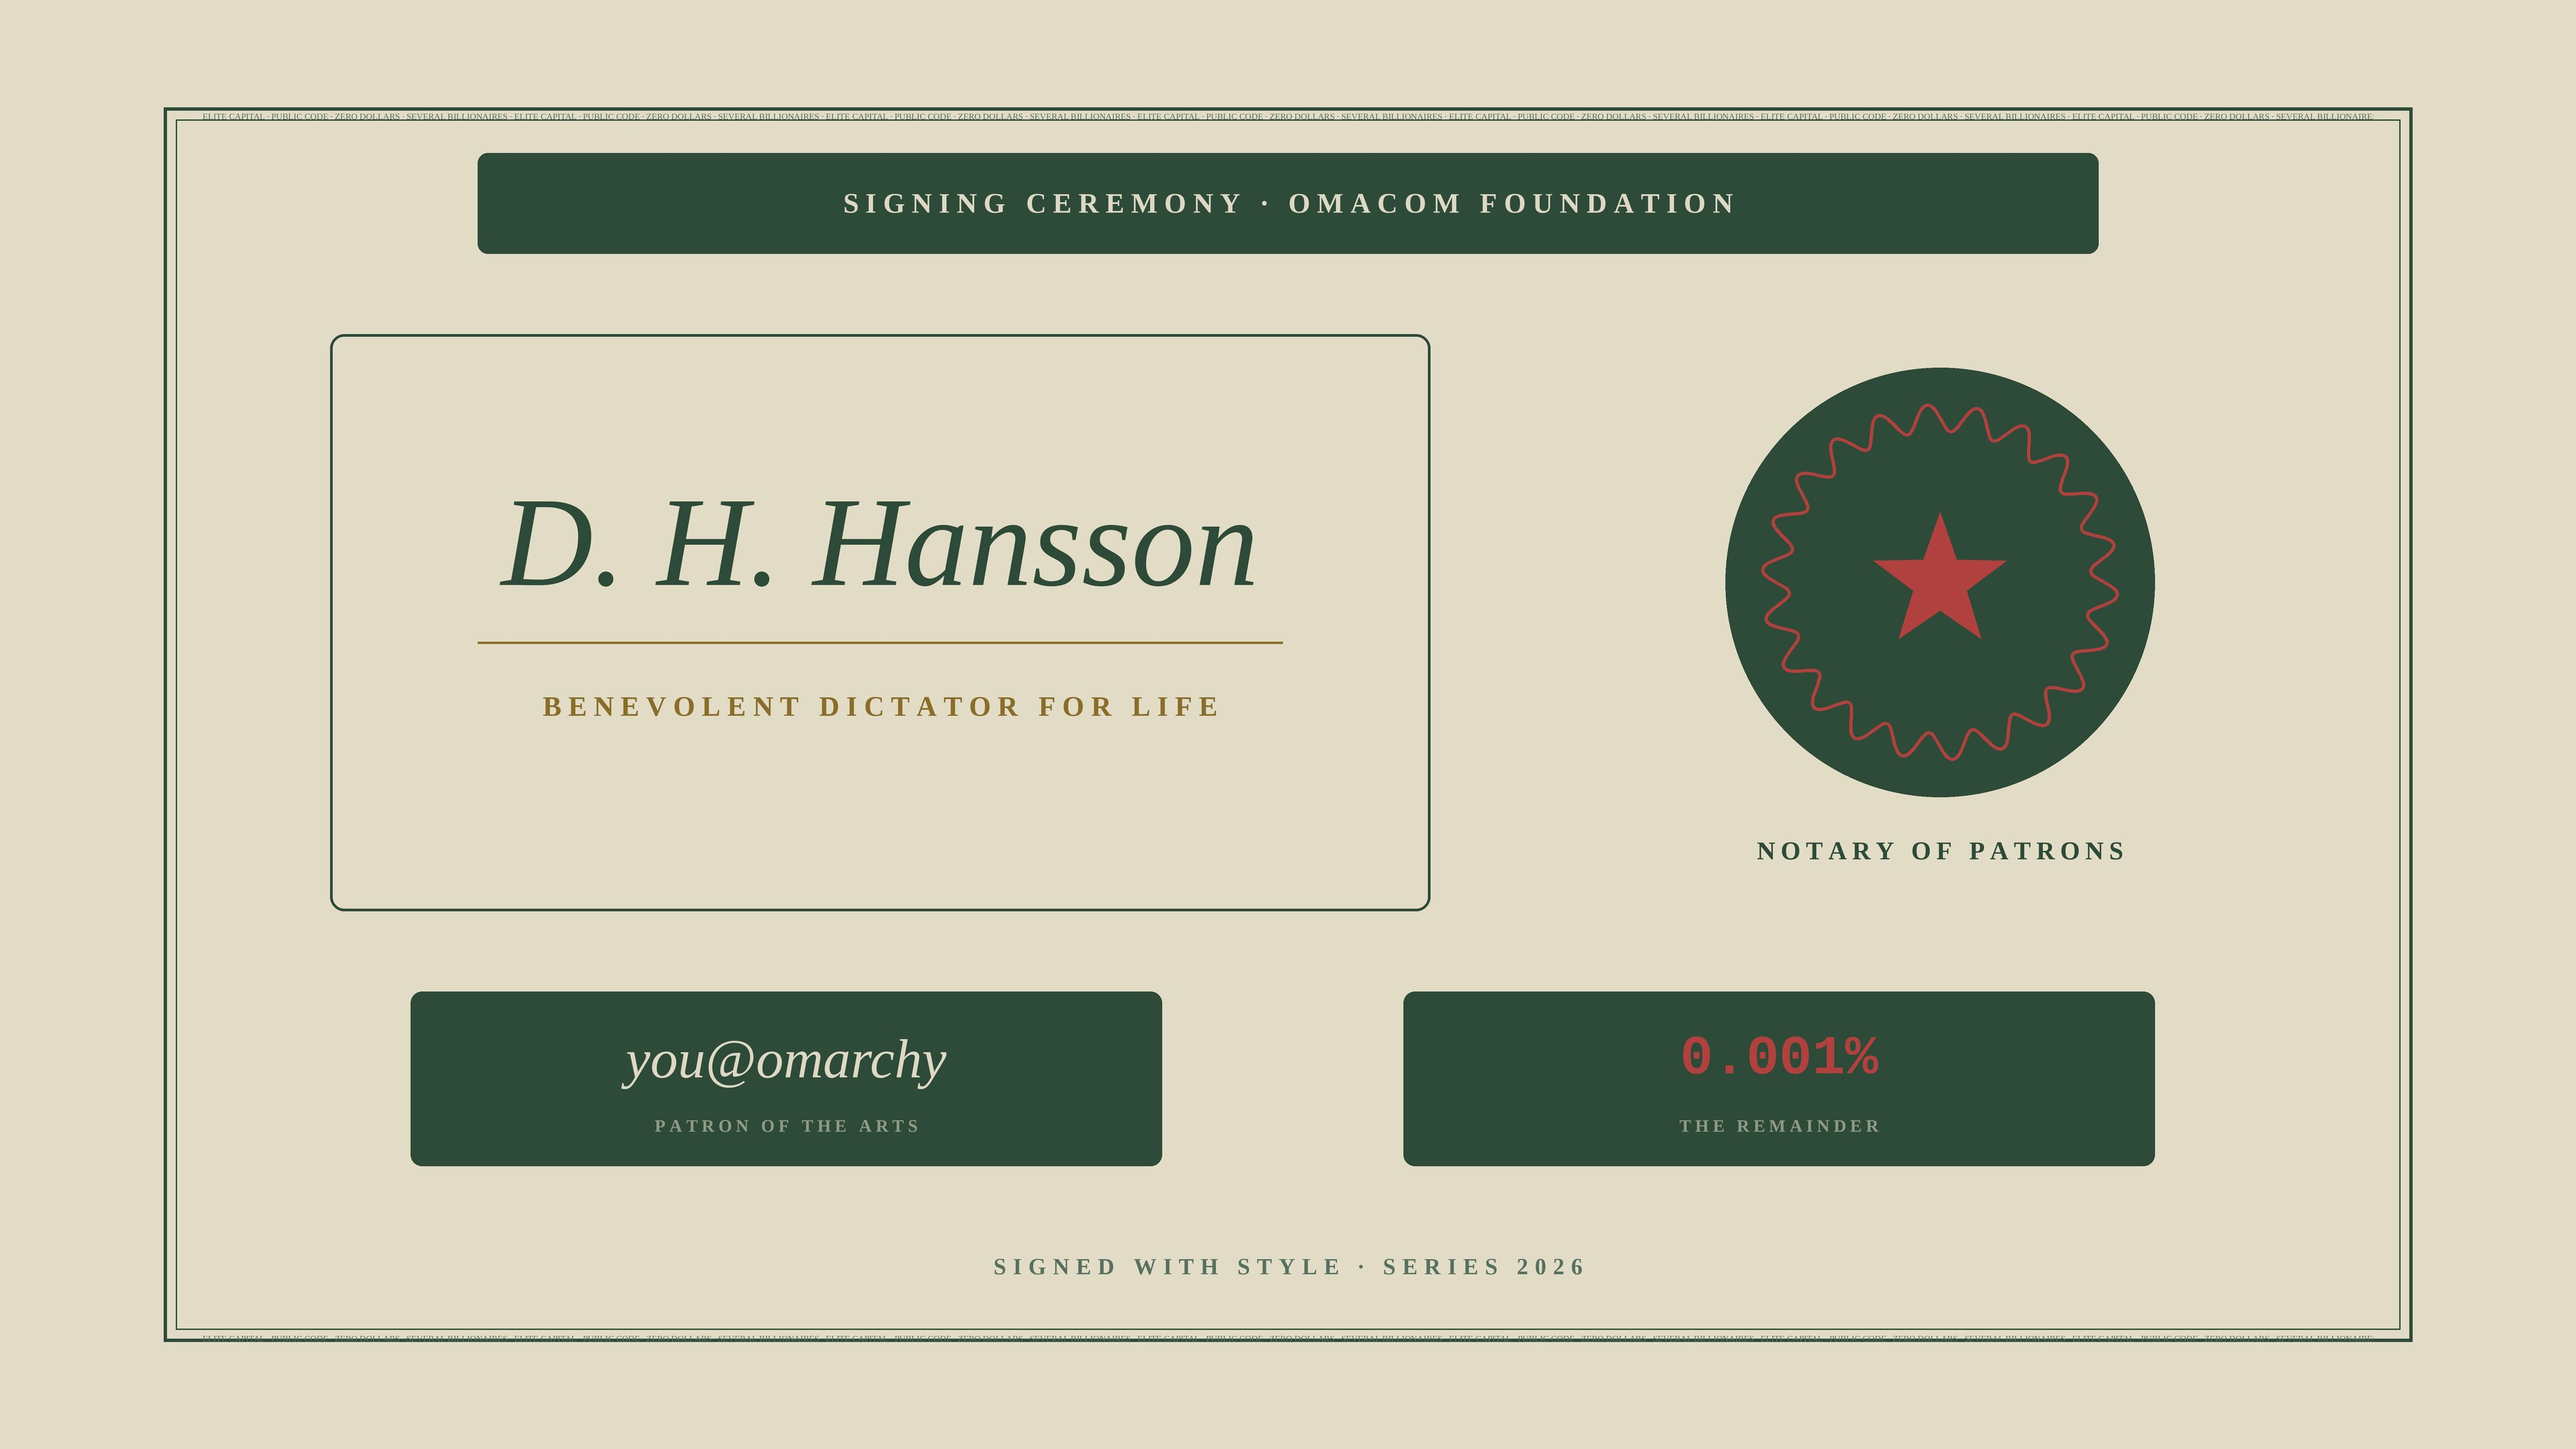
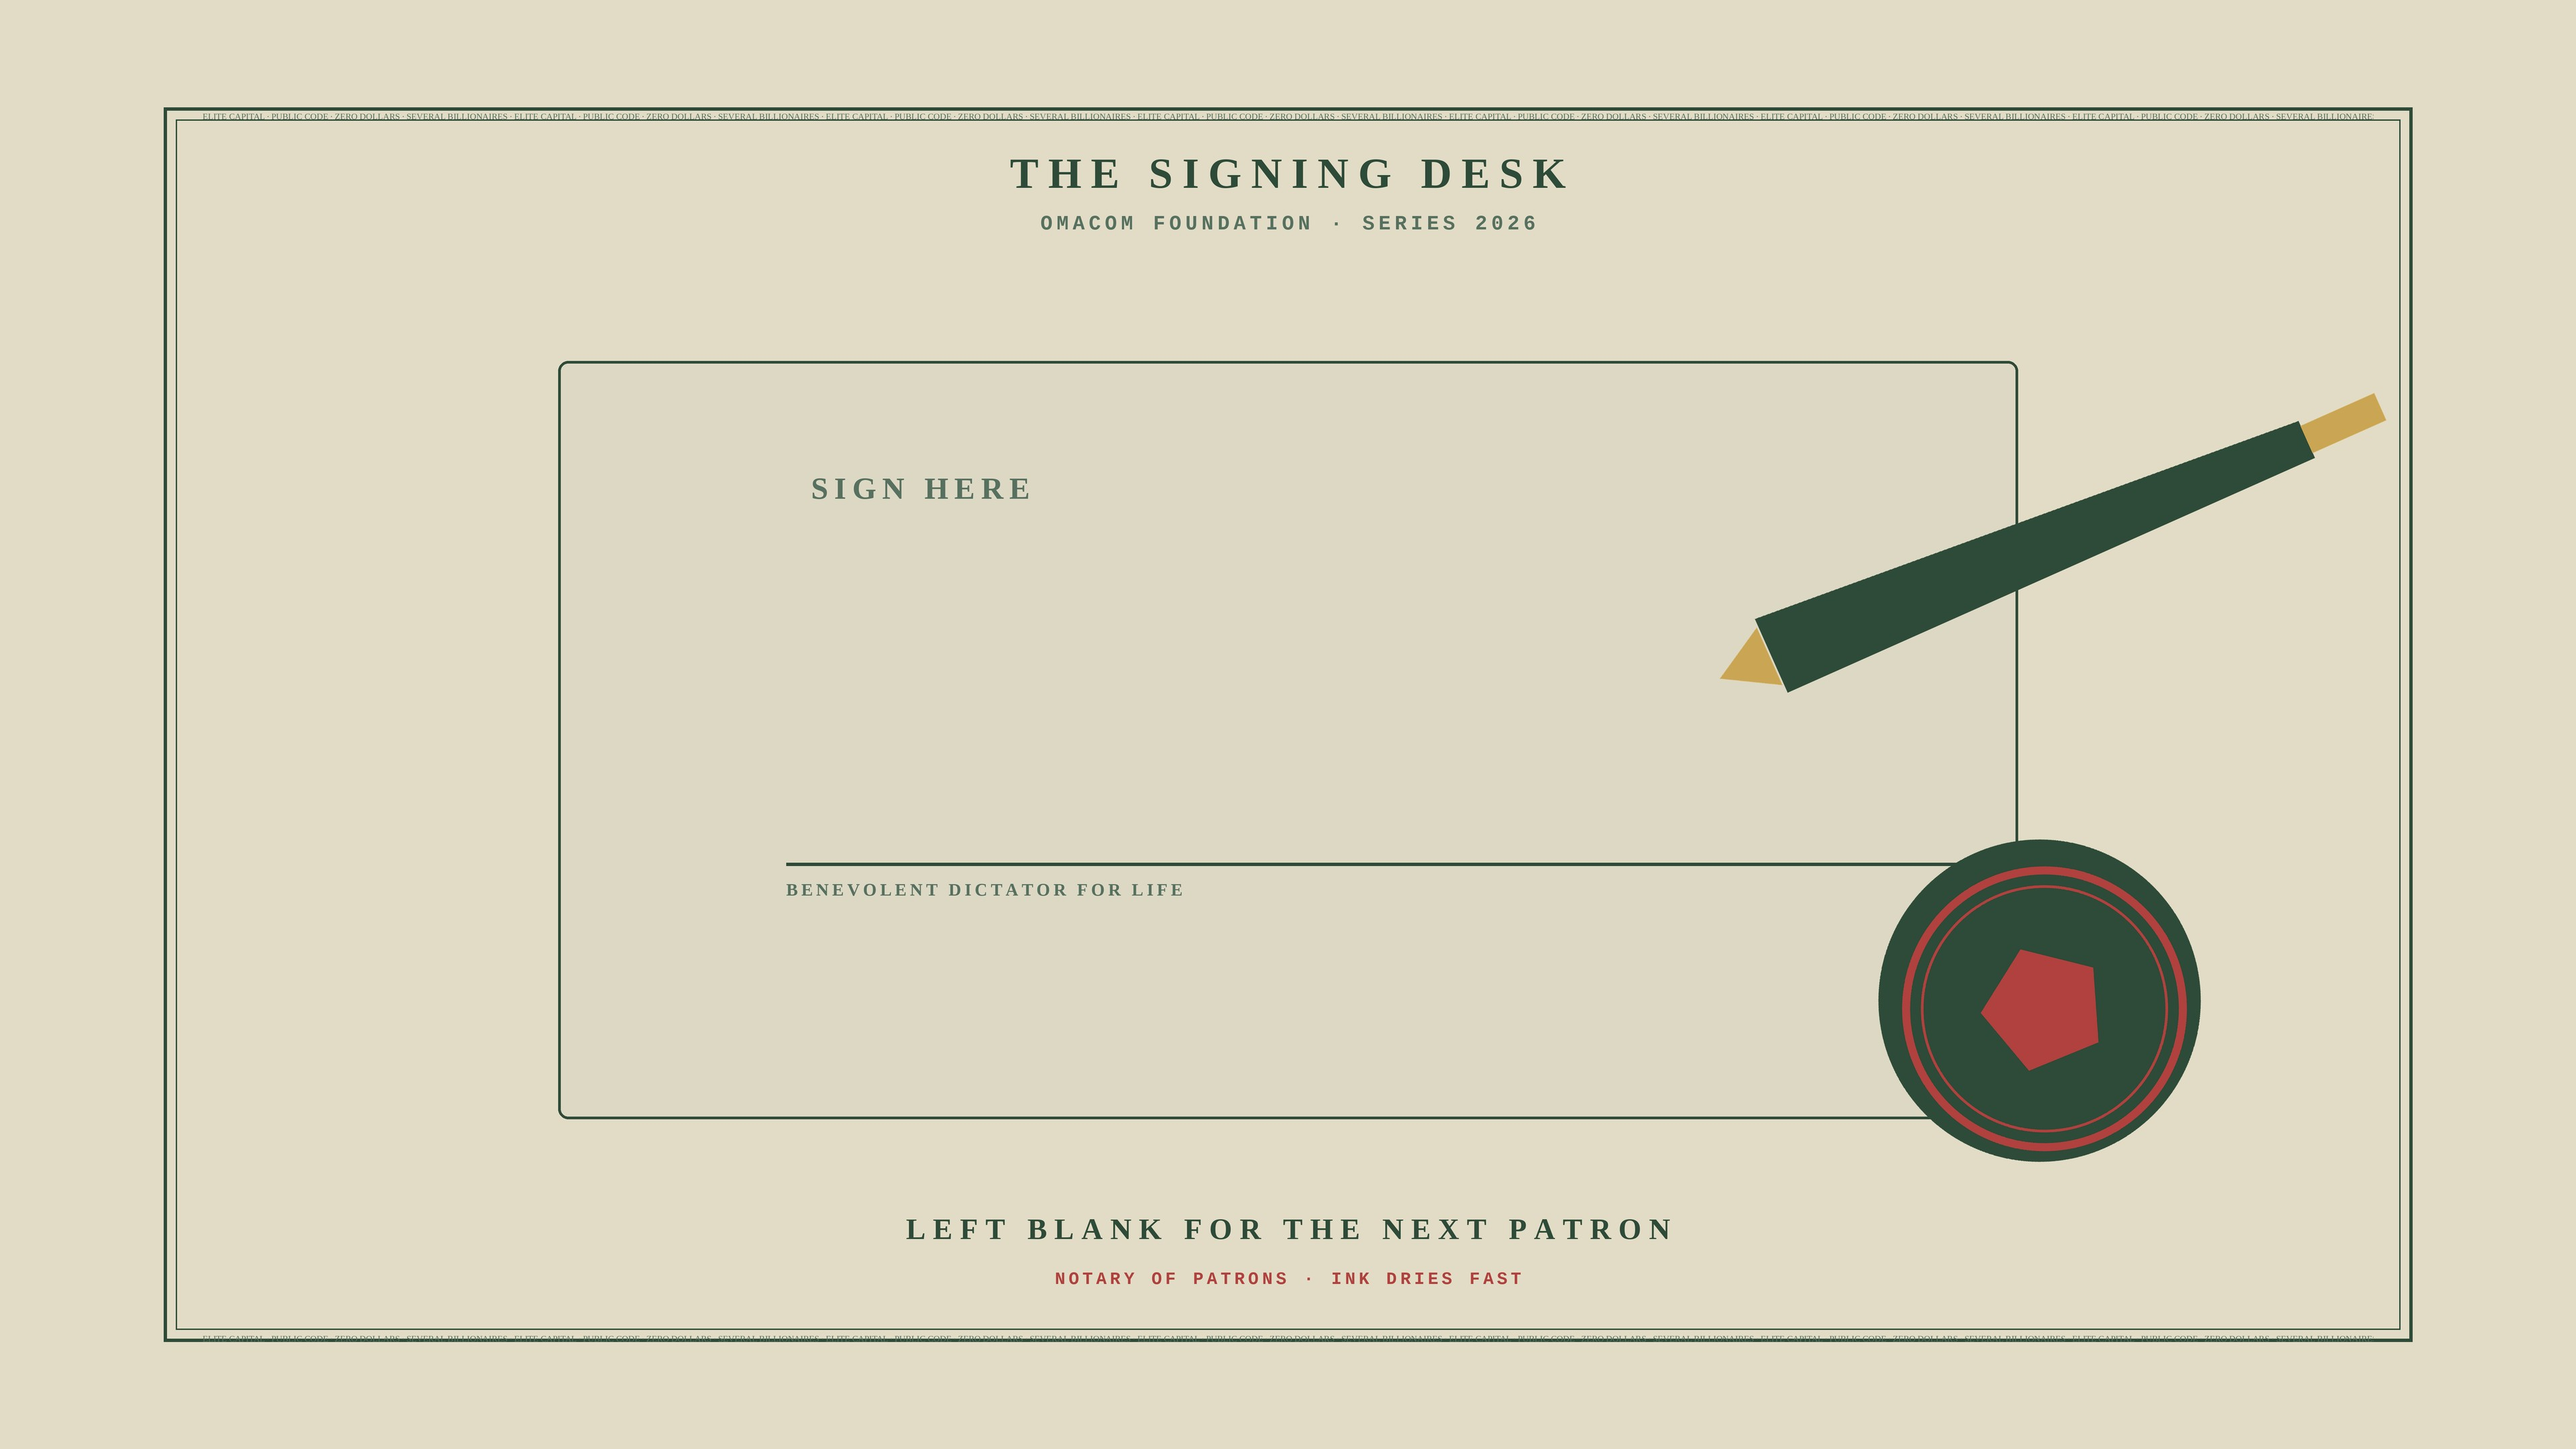
Replace signature plate with signing desk concept
Drop the oversized name focal point. The new scene is a cream signing
book with one blank line, a pressed notary seal, and a fountain pen.
Footer reads LEFT BLANK FOR THE NEXT PATRON.

diff --git a/bin/generate.py b/bin/generate.py
@@ -272,41 +272,50 @@ def scene_signature_plate(p):
     p.border(((52, 5), (70, 2)), ink)
     p.microprint(58, ink_dim, size=13, x0=110, x1=W - 110, clip=True)
     p.microprint(H - 64, ink_dim, size=13, x0=110, x1=W - 110, clip=True)
+    p.text_at(W / 2, 150, "THE SIGNING DESK", p.font(SERIF, 64), ink, tracking=14)
+    p.text_at(W / 2, 226, "OMACOM FOUNDATION · SERIES 2026",
+              p.font(MONO_BOLD, 30), ink_dim, tracking=6)
 
-    p.d.rounded_rectangle([p.s(520), p.s(120), p.s(W - 520), p.s(270)],
-                          radius=30, fill=ink)
-    p.text_at(W / 2, 195, "SIGNING CEREMONY · OMACOM FOUNDATION",
-              p.font(SERIF, 42), CREAM, tracking=10)
+    # The signing book: one blank signature line, waiting.
+    p.d.rounded_rectangle([p.s(640), p.s(430), p.s(W - 640), p.s(1560)],
+                          radius=30, fill=CREAM, outline=ink, width=8)
+    p.text_at(1180, 620, "SIGN HERE", p.font(SERIF, 46), ink_dim, tracking=9)
+    p.d.line([p.s(980), p.s(1180), p.s(2900), p.s(1180)], fill=ink, width=10)
+    p.text_at(980, 1218, "BENEVOLENT DICTATOR FOR LIFE",
+              p.font(SERIF, 26), ink_dim, anchor="la", tracking=5)
+    p.text_at(2900, 1218, "0.001%", p.font(MONO_BOLD, 26), RED, anchor="ra")
 
-    p.d.rounded_rectangle([p.s(300), p.s(390), p.s(1940), p.s(1250)],
-                          radius=42, outline=ink, width=8)
-    p.text_at(1120, 700, "D. H. Hansson", p.font(SERIF_IT, 190), ink)
-    p.d.line([p.s(520), p.s(850), p.s(1720), p.s(850)], fill=proof_gold, width=7)
-    p.text_at(1120, 945, "BENEVOLENT DICTATOR FOR LIFE", p.font(SERIF, 42),
-              proof_gold, tracking=10)
+    # Notary seal, pressed at an angle over the book's corner.
+    seal = Image.new("RGBA", (520 * p.ss, 520 * p.ss), (0, 0, 0, 0))
+    sd = ImageDraw.Draw(seal)
+    sd.ellipse([20, 20, 500 * p.ss - 20, 500 * p.ss - 20], fill=ink)
+    sd.ellipse([int(48 * p.ss), int(48 * p.ss), int(472 * p.ss), int(472 * p.ss)],
+               outline=RED, width=int(12 * p.ss))
+    sd.ellipse([int(76 * p.ss), int(76 * p.ss), int(444 * p.ss), int(444 * p.ss)],
+               outline=RED, width=int(4 * p.ss))
+    sd.regular_polygon((260 * p.ss, 260 * p.ss, 95 * p.ss), 5,
+                       rotation=180, fill=RED)
+    seal = seal.rotate(-14, resample=Image.BICUBIC, expand=True)
+    p.img.paste(seal, (int(p.s(2540)), int(p.s(1080))), seal)
 
-    seal_x, seal_y = 2700, 760
-    p.d.ellipse([p.s(seal_x - 320), p.s(seal_y - 320),
-                 p.s(seal_x + 320), p.s(seal_y + 320)], fill=ink)
-    p.rosette(seal_x, seal_y, 265, 225, RED, petals=22, width=5)
-    p.star(seal_x, seal_y, 105, RED)
-    p.text_at(seal_x, 1160, "NOTARY OF PATRONS", p.font(SERIF, 38), ink,
-              tracking=8)
+    # Fountain pen silhouette crossing the page's top-right corner.
+    pen = Image.new("RGBA", (1250 * p.ss, 420 * p.ss), (0, 0, 0, 0))
+    pd = ImageDraw.Draw(pen)
+    pd.regular_polygon((170 * p.ss, 210 * p.ss, 54 * p.ss), 3,
+                       rotation=90, fill=GOLD)
+    pd.polygon(
+        [(200 * p.ss, 150 * p.ss), (1060 * p.ss, 210 * p.ss),
+         (1060 * p.ss, 270 * p.ss), (200 * p.ss, 270 * p.ss)],
+        fill=ink,
+    )
+    pd.rectangle([1060 * p.ss, 218 * p.ss, 1180 * p.ss, 262 * p.ss], fill=GOLD)
+    pen = pen.rotate(24, resample=Image.BICUBIC, expand=True)
+    p.img.paste(pen, (int(p.s(2180)), int(p.s(250))), pen)
 
-    for x0, x1, title, value in (
-        (420, 1540, "PATRON OF THE ARTS", "you@omarchy"),
-        (1900, 3020, "THE REMAINDER", "0.001%"),
-    ):
-        p.d.rounded_rectangle([p.s(x0), p.s(1370), p.s(x1), p.s(1630)],
-                              radius=34, fill=ink)
-        p.text_at((x0 + x1) / 2, 1470, value,
-                  p.font(SERIF_IT if "@" in value else MONO_BOLD, 82),
-                  CREAM if "@" in value else RED)
-        p.text_at((x0 + x1) / 2, 1570, title, p.font(SERIF, 26), "#8f9a85",
-                  tracking=6)
-
-    p.text_at(W / 2, 1780, "SIGNED WITH STYLE · SERIES 2026",
-              p.font(SERIF, 34), ink_dim, tracking=10)
+    p.text_at(W / 2, H - 220, "LEFT BLANK FOR THE NEXT PATRON",
+              p.font(SERIF, 44), ink, tracking=11)
+    p.text_at(W / 2, H - 145, "NOTARY OF PATRONS · INK DRIES FAST",
+              p.font(MONO_BOLD, 26), RED, tracking=5)
 
 
 # ─────────────────────────────────────────────────────────────────────────
